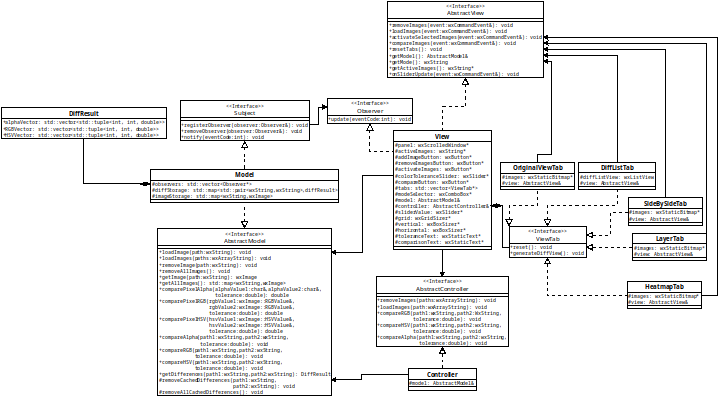
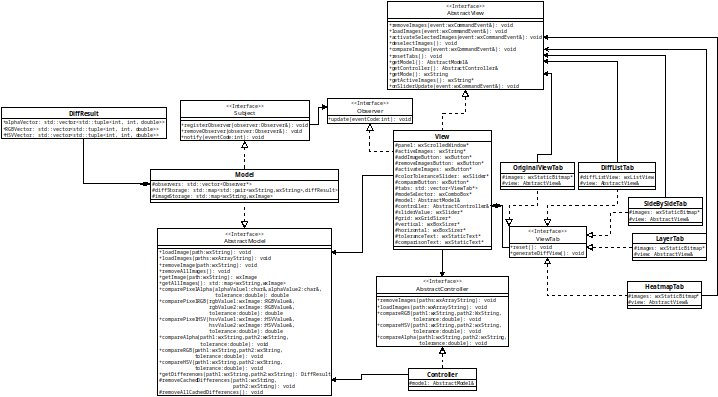
*Add deselect images function *Fixed the activate images function *Modified UML

Changed region(s): [[0.5209, 0.0907, 0.766, 0.2418], [0.766, 0.1511, 0.7967, 0.1814]]

diff --git a/src/view/View.cpp b/src/view/View.cpp
@@ -1,7 +1,7 @@
 #include "View.h"
 /* IDs used for id item's definition
  * The IDs are auto-incremental
- * Every id is for a single item(button/slider/combobox) except for "STATIC_ID"
+ * Every id is for a single item(button/slider/combobox) except for "STATIC_ID" because
  * Its used for every static text in the View because there is no event
  * that concern them*/
 enum{
@@ -53,13 +53,13 @@ View::View(const std::string title, const wxPoint &pos, const wxSize &size, Abst
     compareButton = new wxButton(panel,BUTTON_COMPARE,_("Compara le immagini"));
     toleranceText = new wxStaticText(panel,STATIC_ID,_("Seleziona tolleranza colore:"),wxDefaultPosition,wxDefaultSize);
     comparisonText = new wxStaticText(panel,STATIC_ID,_("Seleziona comparazione:"),wxDefaultPosition,wxDefaultSize);
-    colorToleranceSlider= new wxSlider(panel,SLIDER_COLOR,50,0,100,wxDefaultPosition,removeImagesButton->GetSize());
+    colorToleranceSlider= new wxSlider(panel,SLIDER_COLOR,500,0,1000,wxDefaultPosition,removeImagesButton->GetSize());
 	//Definition of color tolerance slider
-    sliderValue = new wxTextCtrl(panel,VALUE_SLIDER,_("50 %"),wxDefaultPosition,removeImagesButton->GetSize(),wxTE_CENTRE);
+    sliderValue = new wxTextCtrl(panel,VALUE_SLIDER,_("50.0 %"),wxDefaultPosition,removeImagesButton->GetSize(),wxTE_CENTRE);
 	sliderValue->SetEditable(false);
 	/*Definition of comparison mode of combobox
 	 * the initial text "seleziona" aren't a value
-	 * the option are : HSV, RGB and ALPHA
+	 * the option for comparison are : HSV, RGB and ALPHA
 	 * the combobox obviously is not editable*/
     modeSelector = new wxComboBox(panel,MODE_SELECTOR,_("Seleziona"),wxDefaultPosition,compareButton->GetSize());
     modeSelector->Append(_("RGB"));
@@ -93,18 +93,22 @@ View::View(const std::string title, const wxPoint &pos, const wxSize &size, Abst
 	gs->AddGrowableCol(0);
 	vbox->Add(gs,0,wxLEFT ,40);
 	panel->SetSizer(vbox); //setting window sizer
+
 }
 void View::update(int eventCode) {
 
 }
-
+/*Delete the selected images
+ * the while cicle it afflict only the image selected*/
 void View::removeImages(wxCommandEvent& event){
 	long item;
 	while((item = list->GetNextItem(-1,wxLIST_NEXT_ALL,wxLIST_STATE_SELECTED)) != -1){
 		list->DeleteItem(item);
 	}
 }
-
+/*load images on storage
+ * It load the paths in the list view but in the model there is a map that associate
+ * the wxImage object with his relative path*/
 void View::loadImages(wxCommandEvent& event){
 	wxFileDialog* fileDialog=new wxFileDialog(this, _("Scegli una o più foto"),wxEmptyString,wxEmptyString,wxFileSelectorDefaultWildcardStr,wxFD_MULTIPLE);
 	if(fileDialog->ShowModal() == wxID_CANCEL){
@@ -122,14 +126,34 @@ void View::loadImages(wxCommandEvent& event){
 		std::cout << "Caught exception: " << error.what() << std::endl;
 	}
 }
+/*Deselect the activated images
+ * this function is called on activatedSelectImages function for deselect before activate the new images
+ * For practical reasons the function scan every image in the list and if in the column next to him is present the "*"
+ * symbol it deselect him and clear the activated imsges array
+ */
+void View::deselectImages() {
+	long item = -1;
+	while((item = list->GetNextItem(item,wxLIST_NEXT_ALL,wxLIST_STATE_DONTCARE)) != -1){
+		if(list->GetItemText(item,1) == _("*")){
+			list->SetItem(item,1,_(""));
+		}
+	}
 
-void View::activateSelectedImages(wxCommandEvent &event) {
+}
 
-	long item;
-	item = list->GetFocusedItem();
-	list->SetItem(item,1,_("*"));
-
-
+void View::activateSelectedImages(wxCommandEvent& event) {
+	deselectImages();
+	long itemCount=0;
+	long item = -1;
+	wxString arr[2];
+	while((item = list->GetNextItem(item,wxLIST_NEXT_ALL,wxLIST_STATE_SELECTED)) != -1){
+		if(itemCount < 2){
+			list->SetItem(item,1,_("*"));
+			arr[itemCount] = list->GetItemText(item);
+			itemCount++;
+			activeImages = arr;
+		}
+	}
 }
 
 void View::compareImages(wxCommandEvent &event){
@@ -178,8 +202,13 @@ void View::onExit(wxCommandEvent &event){
 }
 
 void View::onSliderUpdate(wxCommandEvent &event){
-	int intValue = colorToleranceSlider->GetValue();
+	long intValue = colorToleranceSlider->GetValue();
 	wxString stringValue;
-	stringValue << intValue;
+	stringValue << (intValue/10.0);
 	sliderValue->SetValue(stringValue + " %");
 }
+
+AbstractController &View::getController() {
+	return controller;
+}
+

diff --git a/src/view/AbstractView.h b/src/view/AbstractView.h
@@ -10,18 +10,23 @@
 #include <wx/wx.h>
 #endif
 #include "../model/AbstractModel.h"
+#include "../controller/AbstractController.h"
+
 class AbstractView{
-    virtual void removeImages(wxCommandEvent& event)=0;
-    virtual void loadImages(wxCommandEvent& event)=0;
-    virtual void activateSelectedImages(wxCommandEvent& event)=0;
-    virtual void compareImages(wxCommandEvent& event)=0;
-    virtual void resetTabs()=0;
-    virtual AbstractModel& getModel()=0;
-    virtual wxString getMode()=0;
-    virtual wxString* getActiveImages()=0;
-    virtual void onAbout(wxCommandEvent& event)=0;
-    virtual void onExit(wxCommandEvent& event)=0;
-    virtual void onSliderUpdate(wxCommandEvent& event)=0;
+public:
+    virtual void removeImages(wxCommandEvent& event) = 0;
+    virtual void loadImages(wxCommandEvent& event) = 0;
+    virtual void activateSelectedImages(wxCommandEvent& event) = 0;
+    virtual void compareImages(wxCommandEvent& event) = 0;
+    virtual void resetTabs() = 0;
+    virtual AbstractModel& getModel() = 0;
+    virtual AbstractController& getController()=0;
+    virtual wxString getMode() = 0;
+    virtual void deselectImages()=0;
+    virtual wxString* getActiveImages() = 0;
+    virtual void onAbout(wxCommandEvent& event) = 0;
+    virtual void onExit(wxCommandEvent& event) = 0;
+    virtual void onSliderUpdate(wxCommandEvent& event) = 0;
 };
 
 #endif //EYEGLASS_ABSTRACTVIEW_H

diff --git a/src/view/View.h b/src/view/View.h
@@ -40,8 +40,6 @@ protected:
 	wxTextCtrl* sliderValue;
 	wxStaticText* toleranceText;
 	wxStaticText* comparisonText;
-	int itemIndex=0;
-
 
 public:
 
@@ -61,7 +59,9 @@ public:
 
     AbstractModel& getModel() override;
 
-    wxString getMode() override; //get selected comparation mode
+	AbstractController& getController() override;
+
+	wxString getMode() override; //get selected comparation mode
 
     wxString* getActiveImages() override;   //get activated images
 
@@ -69,7 +69,9 @@ public:
 
 	void onExit(wxCommandEvent &event) override;
 
-	void onSliderUpdate(wxCommandEvent &event) override;
+	void onSliderUpdate(wxCommandEvent &event) override;	//it change the textbox value of comparison tolerance
+
+	void deselectImages() override;  //deselect the activate images
 
 wxDECLARE_EVENT_TABLE();
 };

diff --git a/src/model/Model.cpp b/src/model/Model.cpp
@@ -23,7 +23,7 @@ const wxImage Model::getImage(wxString path) {
 }
 
 const std::map<wxString, wxImage> Model::getAllImages() {
-    return std::map<wxString, wxImage>();
+    return imageStorage;
 }
 
 double Model::comparePixelAlpha(const char alphaValue1, const char alphaValue2, const double tolerance) {
@@ -85,3 +85,4 @@ void Model::removeObserver(Observer* observer) {
 void Model::notify(int eventCode) {
 
 }
+

diff --git a/test/ViewSuite.cpp b/test/ViewSuite.cpp
@@ -1,0 +1,19 @@
+//
+#include "gtest/gtest.h"
+#include "../src/view/View.h"
+#include "../src/controller/Controller.h"
+#include "../src/model/Model.h"
+#include <wx/wxprec.h>
+#ifndef WX_PRECOMP
+#include <wx/wx.h>
+#endif
+
+class ViewSuite : public ::testing::Test, public wxApp  {
+protected:
+	virtual void SetUp() {
+	}
+};
+
+
+//
+

diff --git a/src/controller/Controller.cpp b/src/controller/Controller.cpp
@@ -4,7 +4,7 @@
 
 #include "Controller.h"
 
-Controller::Controller(AbstractModel& model): model(model){}
+Controller::Controller(AbstractModel& model) : model(model){}
 
 void Controller::removeImages(wxArrayString paths) {
 

diff --git a/test/testfile.cpp b/test/testfile.cpp
@@ -1,2 +1,9 @@
 #include "gtest/gtest.h"
-
+#include <wx/wxprec.h>
+#ifndef WX_PRECOMP
+#include <wx/wx.h>
+#endif
+int main(int argc, char** argv) {
+	::testing::InitGoogleTest(&argc, argv);
+	return RUN_ALL_TESTS();
+}

diff --git a/src/model/Model.h b/src/model/Model.h
@@ -52,6 +52,7 @@ public:
 
     const DiffResult getDifferences(wxString path1, wxString path2) override;
 
+
 protected:
     void removeCachedDifferences(wxString path1, wxString path2) override;
 

diff --git a/src/controller/Controller.h b/src/controller/Controller.h
@@ -16,6 +16,7 @@ protected:
     AbstractModel& model;
 
 public:
+
     Controller(AbstractModel& model);
     /*Remove images from the storage
      * It can remove multiple image at once*/

diff --git a/src/model/AbstractModel.h b/src/model/AbstractModel.h
@@ -102,6 +102,7 @@ protected:
 	 * Purge every diff cache entry.
 	 */
 	virtual void removeAllCachedDifferences() = 0;
+
 };
 
 #endif

diff --git a/src/utils/Observer.h b/src/utils/Observer.h
@@ -6,6 +6,7 @@
 #define EYEGLASS_OBSERVER_H
 
 class Observer{
+public:
     virtual void update(int eventCode)=0;
 };
 
